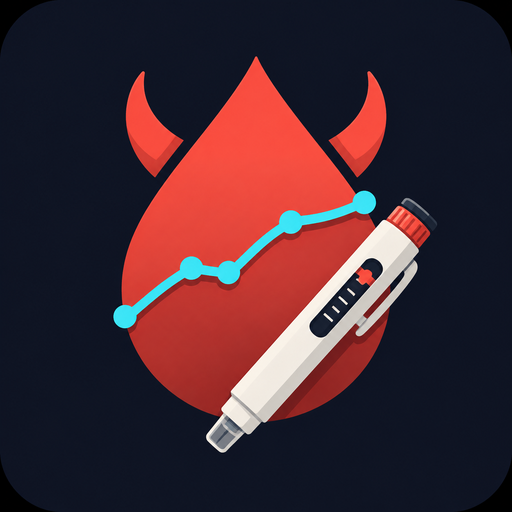
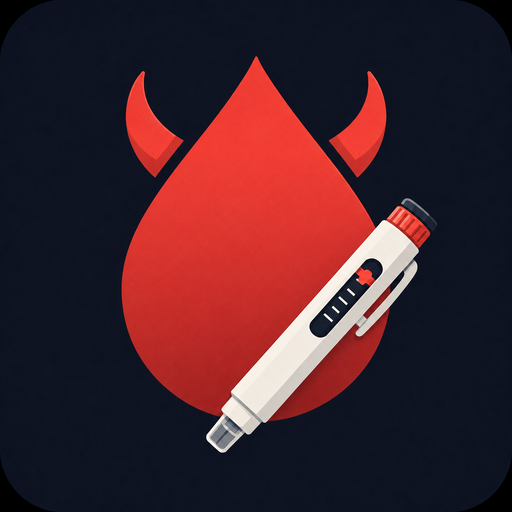
Simplify Glucifer branding by removing the chart

diff --git a/README.md b/README.md
@@ -1,6 +1,6 @@
 # Glucifer for Home Assistant
 
-<img src="https://raw.githubusercontent.com/pannal/glucifer-ha/e6475a0ff13b750936a37f4d0ea238efa1d1c5c3/docs/brand/banner.png" alt="Glucifer HA: horned glucose drop, chart, and insulin pen beside the Home Assistant icon and Glucifer HA lettering" width="100%">
+<img src="https://raw.githubusercontent.com/pannal/glucifer-ha/v0.2.1/docs/brand/banner.png" alt="Glucifer HA: horned glucose drop and insulin pen beside the Home Assistant icon and Glucifer HA lettering" width="100%">
 
 Bring [JugglucoNG](https://github.com/ctqvva/JugglucoNG) glucose readings into
 Home Assistant through a private webhook. Includes mg/dL and mmol/L,
